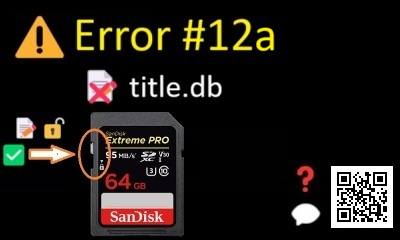
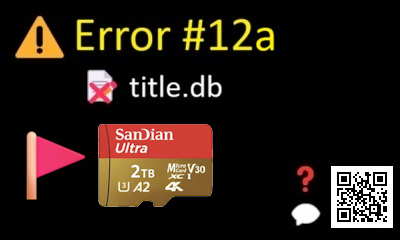
finalize: 1.10.4
- add catch for if finalize.romfs fails to sha
- copy only /gm9/languages/ (copying the gm9 folder early means that people can mistakenly select nandmanager/gm9megascript)
- errors 12a,b and 14b-f now tell user that SD may be faulty or illegitimate

Changed region(s): [[0.0, 0.4667, 0.54, 0.9917]]

diff --git a/docs.md b/docs.md
@@ -176,13 +176,13 @@
 
 ## Scriptrunner-integrated error checking (finalize_helper.firm)
 
-- **ERROR**: "Error #21: finalize.romfs not found"
+- **ERROR**: "Error #21: finalize.romfs not found" *(This error also can appear in finalize.gm9 for the same reason)*
 - **CAUSE**: finalize.romfs could not be found in any of the checked locations (SD root, 3ds, Nintendo 3DS, DCIM, luma, /luma/payloads)
 - **FIX**: Have user place finalize.romfs in the right directory
 
 ---
 
-- **ERROR**: "Error #22: finalize.romfs is invalid"
+- **ERROR**: "Error #22: finalize.romfs is invalid (or unreadable)" *(This error also can appear in finalize.gm9 for the same reason)*
 - **CAUSE**: finalize.romfs does not match finalize_helper.firm's hardcoded checksum (corrupted SD? outdated file?)
 - **FIX**: Replace finalize.romfs with freshly downloaded copy
 
@@ -206,6 +206,10 @@
 - **NOTE**: This is a lazy fix to checking for free space, as doing so is difficult. This check will fail to trigger if user already has GodMode9.firm in `/luma/payloads/` (which could conceivably happen).
 
 ---
+
+- **ERROR**: "Error #26: Failed to checksum finalize.romfs"
+- **CAUSE**: This is usually due to a faulty or illegitimate SD card.
+- **FIX**: Check the physical SD card: if it is unbranded or fake ("1024GB", Lenovo, Xiaomi, HUAWEI, etc.), it is almost certainly the problem. If no access to any other SD card, try reformatting the current one.
 
 ## Other script-related errors
 
